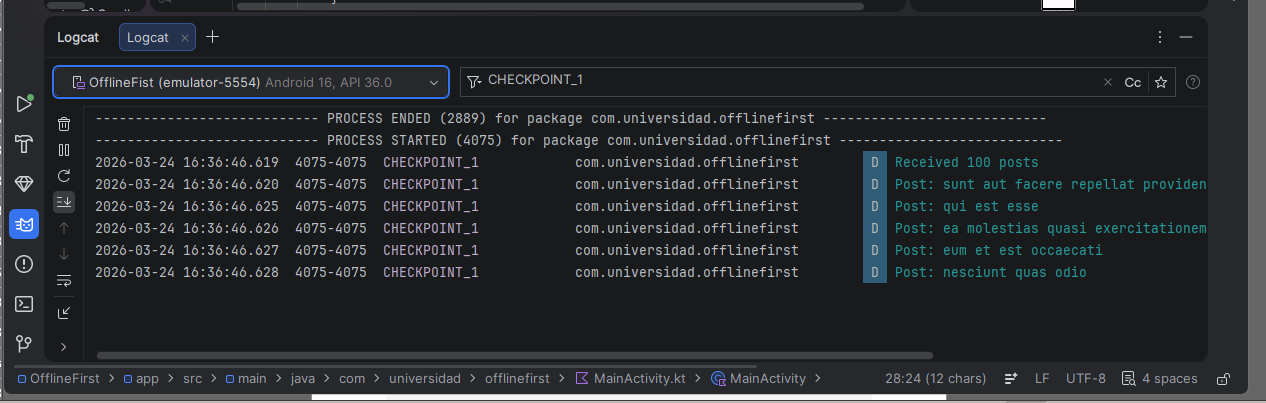
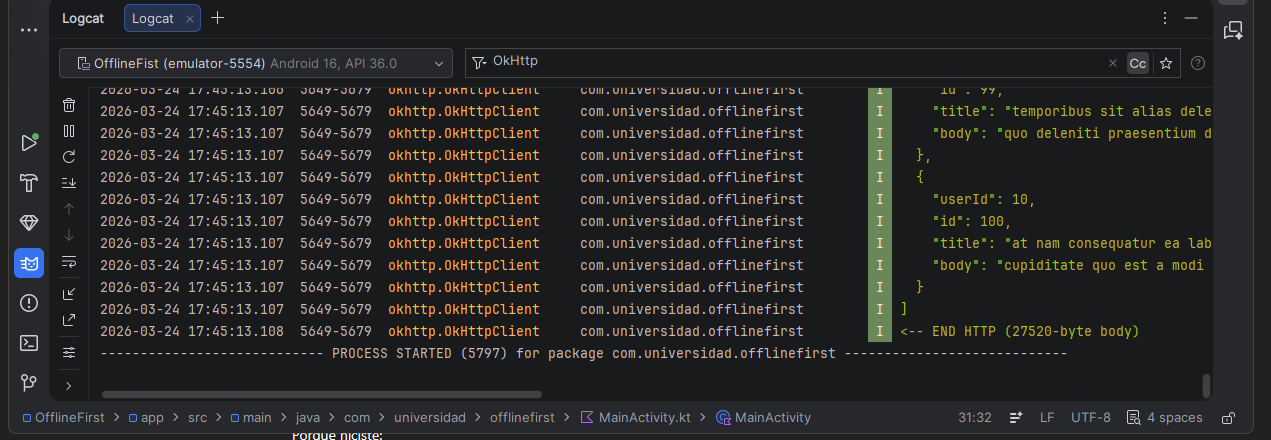
feat: añade repository con TTL para cache offline-first y control de llamadas a red

Changed region(s): [[0.0, 0.0, 1.0, 1.0], [0.8009, 0.0, 0.8626, 0.0298], [0.9242, 0.8635, 0.955, 0.8933]]

diff --git a/app/src/main/java/com/universidad/offlinefirst/MainActivity.kt b/app/src/main/java/com/universidad/offlinefirst/MainActivity.kt
@@ -1,44 +1,62 @@
 package com.universidad.offlinefirst
 
 import android.os.Bundle
-import android.util.Log
 import androidx.activity.ComponentActivity
 import androidx.activity.compose.setContent
 import androidx.activity.enableEdgeToEdge
-import androidx.compose.foundation.layout.fillMaxSize
-import androidx.compose.foundation.layout.padding
-import androidx.compose.material3.Scaffold
-import androidx.compose.material3.Text
+import androidx.compose.foundation.layout.*
+import androidx.compose.foundation.lazy.LazyColumn
+import androidx.compose.foundation.lazy.items
+import androidx.compose.material.icons.Icons
+import androidx.compose.material.icons.filled.Favorite
+import androidx.compose.material.icons.filled.FavoriteBorder
+import androidx.compose.material3.*
 import androidx.compose.runtime.Composable
+import androidx.compose.runtime.collectAsState
+import androidx.compose.runtime.getValue
+import androidx.compose.ui.Alignment
 import androidx.compose.ui.Modifier
-import androidx.lifecycle.lifecycleScope
+import androidx.compose.ui.graphics.Color
+import androidx.compose.ui.unit.dp
+import androidx.lifecycle.ViewModel
+import androidx.lifecycle.ViewModelProvider
+import androidx.lifecycle.viewmodel.compose.viewModel
+import com.universidad.offlinefirst.data.PostRepository
+import com.universidad.offlinefirst.data.local.AppDatabase
+import com.universidad.offlinefirst.data.local.PostEntity
 import com.universidad.offlinefirst.data.remote.RetrofitClient
 import com.universidad.offlinefirst.ui.theme.OfflineFirstTheme
-import kotlinx.coroutines.launch
+import com.universidad.offlinefirst.viewmodel.PostViewModel
 
 class MainActivity : ComponentActivity() {
+    @OptIn(ExperimentalMaterial3Api::class)
     override fun onCreate(savedInstanceState: Bundle?) {
         super.onCreate(savedInstanceState)
         enableEdgeToEdge()
+
+        val database = AppDatabase.getDatabase(this)
+        val repository = PostRepository(database.postDao(), RetrofitClient.instance)
         
-        // Manual test for Checkpoint 1
-        lifecycleScope.launch {
-            try {
-                val posts = RetrofitClient.instance.getPosts()
-                Log.d("CHECKPOINT_1", "Received ${posts.size} posts")
-                posts.take(5).forEach { post ->
-                    Log.d("CHECKPOINT_1", "Post: ${post.title}")
-                }
-            } catch (e: Exception) {
-                Log.e("CHECKPOINT_1", "Error fetching posts", e)
+        val viewModelFactory = object : ViewModelProvider.Factory {
+            override fun <T : ViewModel> create(modelClass: Class<T>): T {
+                @Suppress("UNCHECKED_CAST")
+                return PostViewModel(repository) as T
             }
         }
 
         setContent {
             OfflineFirstTheme {
-                Scaffold(modifier = Modifier.fillMaxSize()) { innerPadding ->
-                    Greeting(
-                        name = "Offline-First App",
+                val viewModel: PostViewModel = viewModel(factory = viewModelFactory)
+                val posts by viewModel.posts.collectAsState()
+
+                Scaffold(
+                    topBar = {
+                        CenterAlignedTopAppBar(title = { Text("Offline-First Posts") })
+                    }
+                ) { innerPadding ->
+                    PostList(
+                        posts = posts,
+                        onFavoriteClick = { viewModel.toggleFavorite(it) },
                         modifier = Modifier.padding(innerPadding)
                     )
                 }
@@ -48,9 +66,39 @@ class MainActivity : ComponentActivity() {
 }
 
 @Composable
-fun Greeting(name: String, modifier: Modifier = Modifier) {
-    Text(
-        text = "Hello $name!",
-        modifier = modifier
-    )
+fun PostList(
+    posts: List<PostEntity>,
+    onFavoriteClick: (PostEntity) -> Unit,
+    modifier: Modifier = Modifier
+) {
+    LazyColumn(modifier = modifier.fillMaxSize()) {
+        items(posts) { post ->
+            Card(
+                modifier = Modifier
+                    .fillMaxWidth()
+                    .padding(8.dp),
+                elevation = CardDefaults.cardElevation(4.dp)
+            ) {
+                Row(
+                    modifier = Modifier
+                        .padding(16.dp)
+                        .fillMaxWidth(),
+                    verticalAlignment = Alignment.CenterVertically
+                ) {
+                    Column(modifier = Modifier.weight(1f)) {
+                        Text(text = post.title, style = MaterialTheme.typography.titleMedium)
+                        Spacer(modifier = Modifier.height(4.dp))
+                        Text(text = post.body, style = MaterialTheme.typography.bodySmall)
+                    }
+                    IconButton(onClick = { onFavoriteClick(post) }) {
+                        Icon(
+                            imageVector = if (post.isFavorite) Icons.Default.Favorite else Icons.Default.FavoriteBorder,
+                            contentDescription = "Favorite",
+                            tint = if (post.isFavorite) Color.Red else Color.Gray
+                        )
+                    }
+                }
+            }
+        }
+    }
 }

diff --git a/app/src/main/java/com/universidad/offlinefirst/data/PostRepository.kt b/app/src/main/java/com/universidad/offlinefirst/data/PostRepository.kt
@@ -1,47 +1,36 @@
 package com.universidad.offlinefirst.data
 
-import android.util.Log
 import com.universidad.offlinefirst.data.local.PostDao
 import com.universidad.offlinefirst.data.local.PostEntity
 import com.universidad.offlinefirst.data.remote.PostApiService
 import com.universidad.offlinefirst.data.remote.toEntity
 import kotlinx.coroutines.flow.Flow
-import kotlinx.coroutines.flow.first
-import kotlinx.coroutines.flow.onEach
 
-class PostRepository(
-    private val postDao: PostDao,
-    private val apiService: PostApiService
-) {
+class PostRepository(private val dao: PostDao, private val api: PostApiService) {
+
     companion object {
-        private const val TTL_MILLIS = 5 * 60 * 1000 // 5 minutes
+        private const val TTL_MS = 5 * 60 * 1000L  // 5 minutos
     }
 
-    fun getPosts(): Flow<List<PostEntity>> {
-        return postDao.observeAll().onEach { localPosts ->
-            if (shouldUpdateCache()) {
-                refreshPosts()
+    // Fuente única de verdad: la UI siempre observa Room
+    fun observePosts(): Flow<List<PostEntity>> = dao.observeAll()
+
+    // Lógica de refresco: solo llama a la red si el cache expiró
+    suspend fun refreshIfStale() {
+        val oldest = dao.getOldestCacheTimestamp() ?: 0L
+        val isStale = (System.currentTimeMillis() - oldest) > TTL_MS
+        if (isStale) {
+            try {
+                val remote = api.getPosts()
+                dao.upsertAll(remote.map { it.toEntity() })
+            } catch (e: Exception) {
+                // Sin conexión: Room ya tiene datos, no se hace nada
             }
         }
     }
 
-    private suspend fun shouldUpdateCache(): Boolean {
-        val oldest = postDao.getOldestCacheTimestamp() ?: return true
-        return (System.currentTimeMillis() - oldest) > TTL_MILLIS
-    }
-
-    suspend fun refreshPosts() {
-        try {
-            val remotePosts = apiService.getPosts()
-            Log.d("PostRepository", "Fetched ${remotePosts.size} posts from network")
-            postDao.upsertAll(remotePosts.map { it.toEntity() })
-        } catch (e: Exception) {
-            Log.e("PostRepository", "Error refreshing posts", e)
-        }
-    }
-
-    suspend fun toggleFavorite(id: Int, isFavorite: Boolean) {
-        postDao.toggleFavorite(id, isFavorite)
-        // WorkManager will handle the sync later
+    suspend fun toggleFavorite(post: PostEntity) {
+        dao.toggleFavorite(post.id, !post.isFavorite)
+        // WorkManager encola la sincronización (ver Paso 5)
     }
 }

diff --git a/app/src/main/java/com/universidad/offlinefirst/viewmodel/PostViewModel.kt b/app/src/main/java/com/universidad/offlinefirst/viewmodel/PostViewModel.kt
@@ -1,0 +1,25 @@
+package com.universidad.offlinefirst.viewmodel
+
+import androidx.lifecycle.ViewModel
+import androidx.lifecycle.viewModelScope
+import com.universidad.offlinefirst.data.PostRepository
+import com.universidad.offlinefirst.data.local.PostEntity
+import kotlinx.coroutines.flow.SharingStarted
+import kotlinx.coroutines.flow.stateIn
+import kotlinx.coroutines.launch
+
+class PostViewModel(private val repo: PostRepository) : ViewModel() {
+
+    val posts = repo.observePosts()
+        .stateIn(viewModelScope, SharingStarted.WhileSubscribed(5_000), emptyList())
+
+    init {
+        viewModelScope.launch {
+            repo.refreshIfStale()  // Refresca solo si el cache expiró
+        }
+    }
+
+    fun toggleFavorite(post: PostEntity) {
+        viewModelScope.launch { repo.toggleFavorite(post) }
+    }
+}
